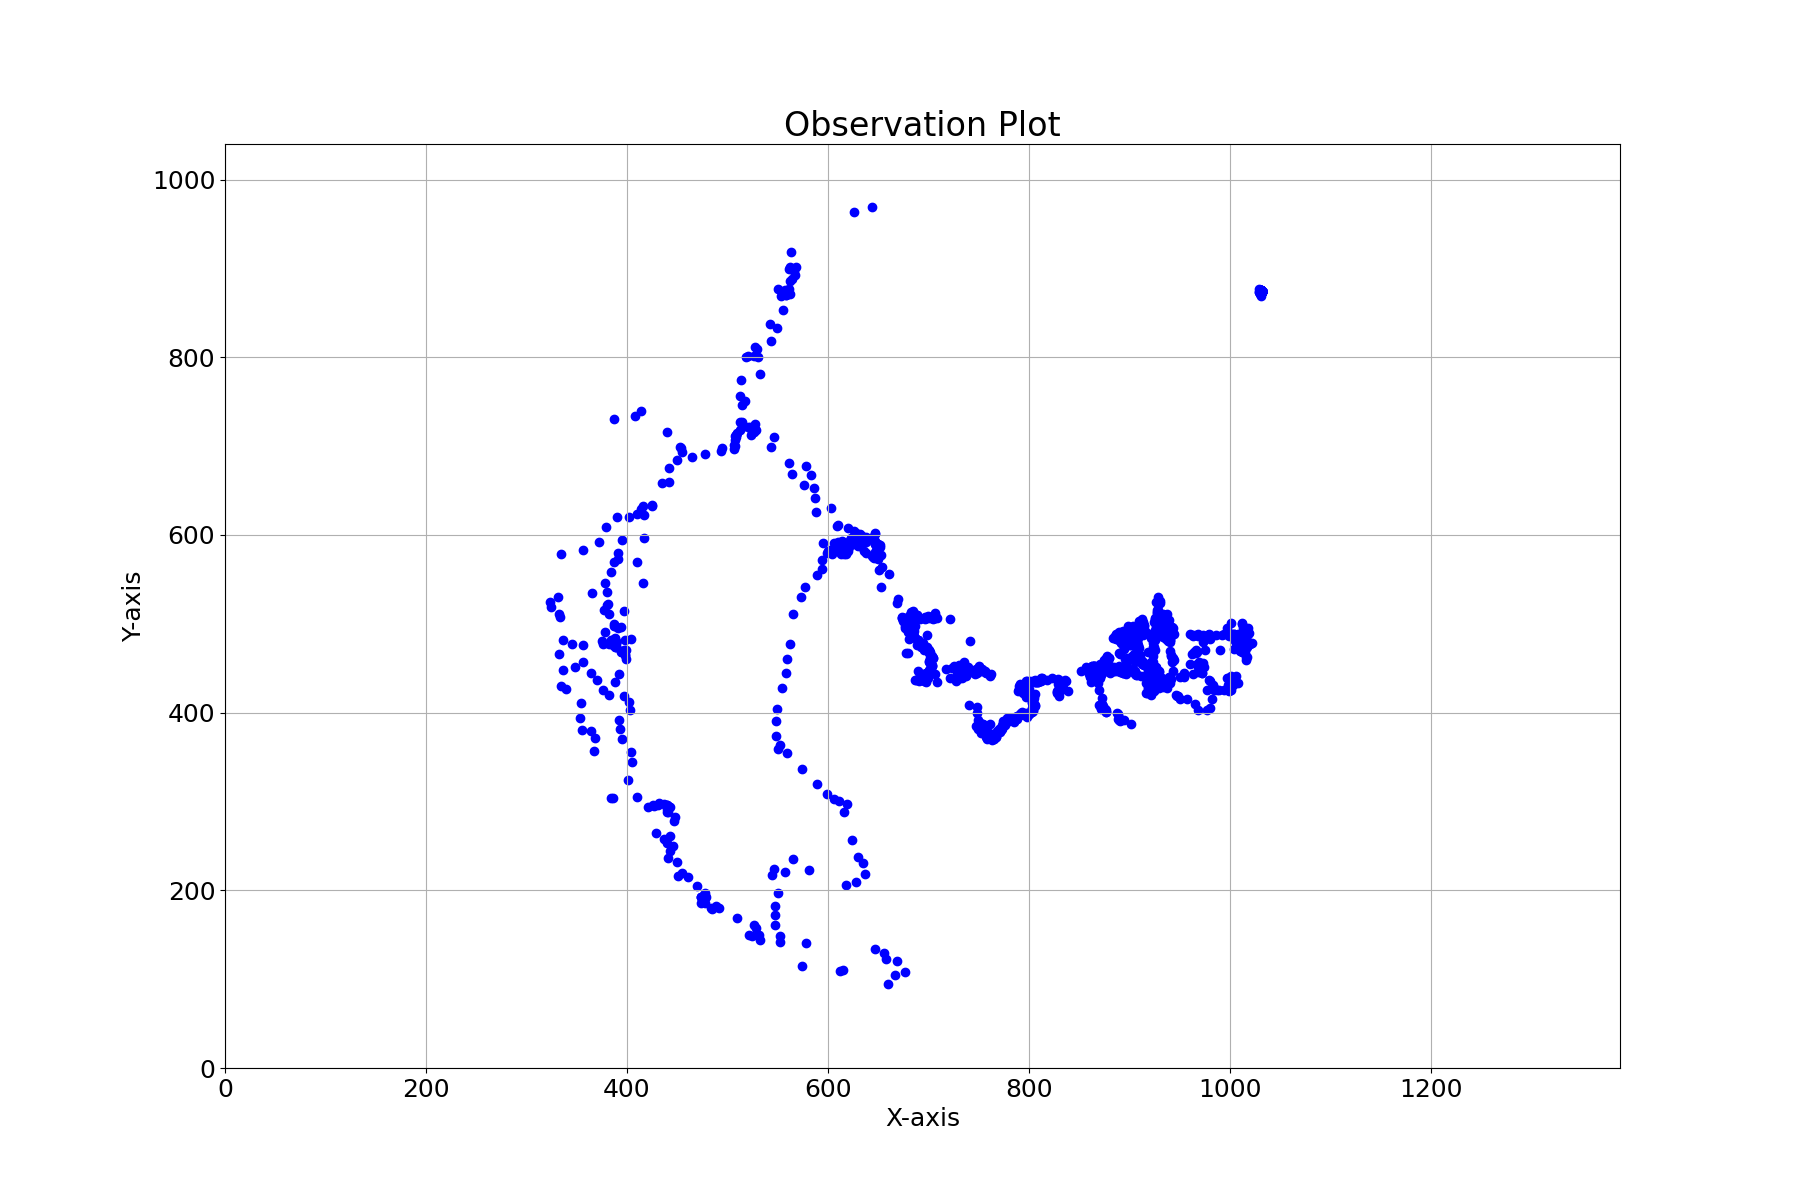
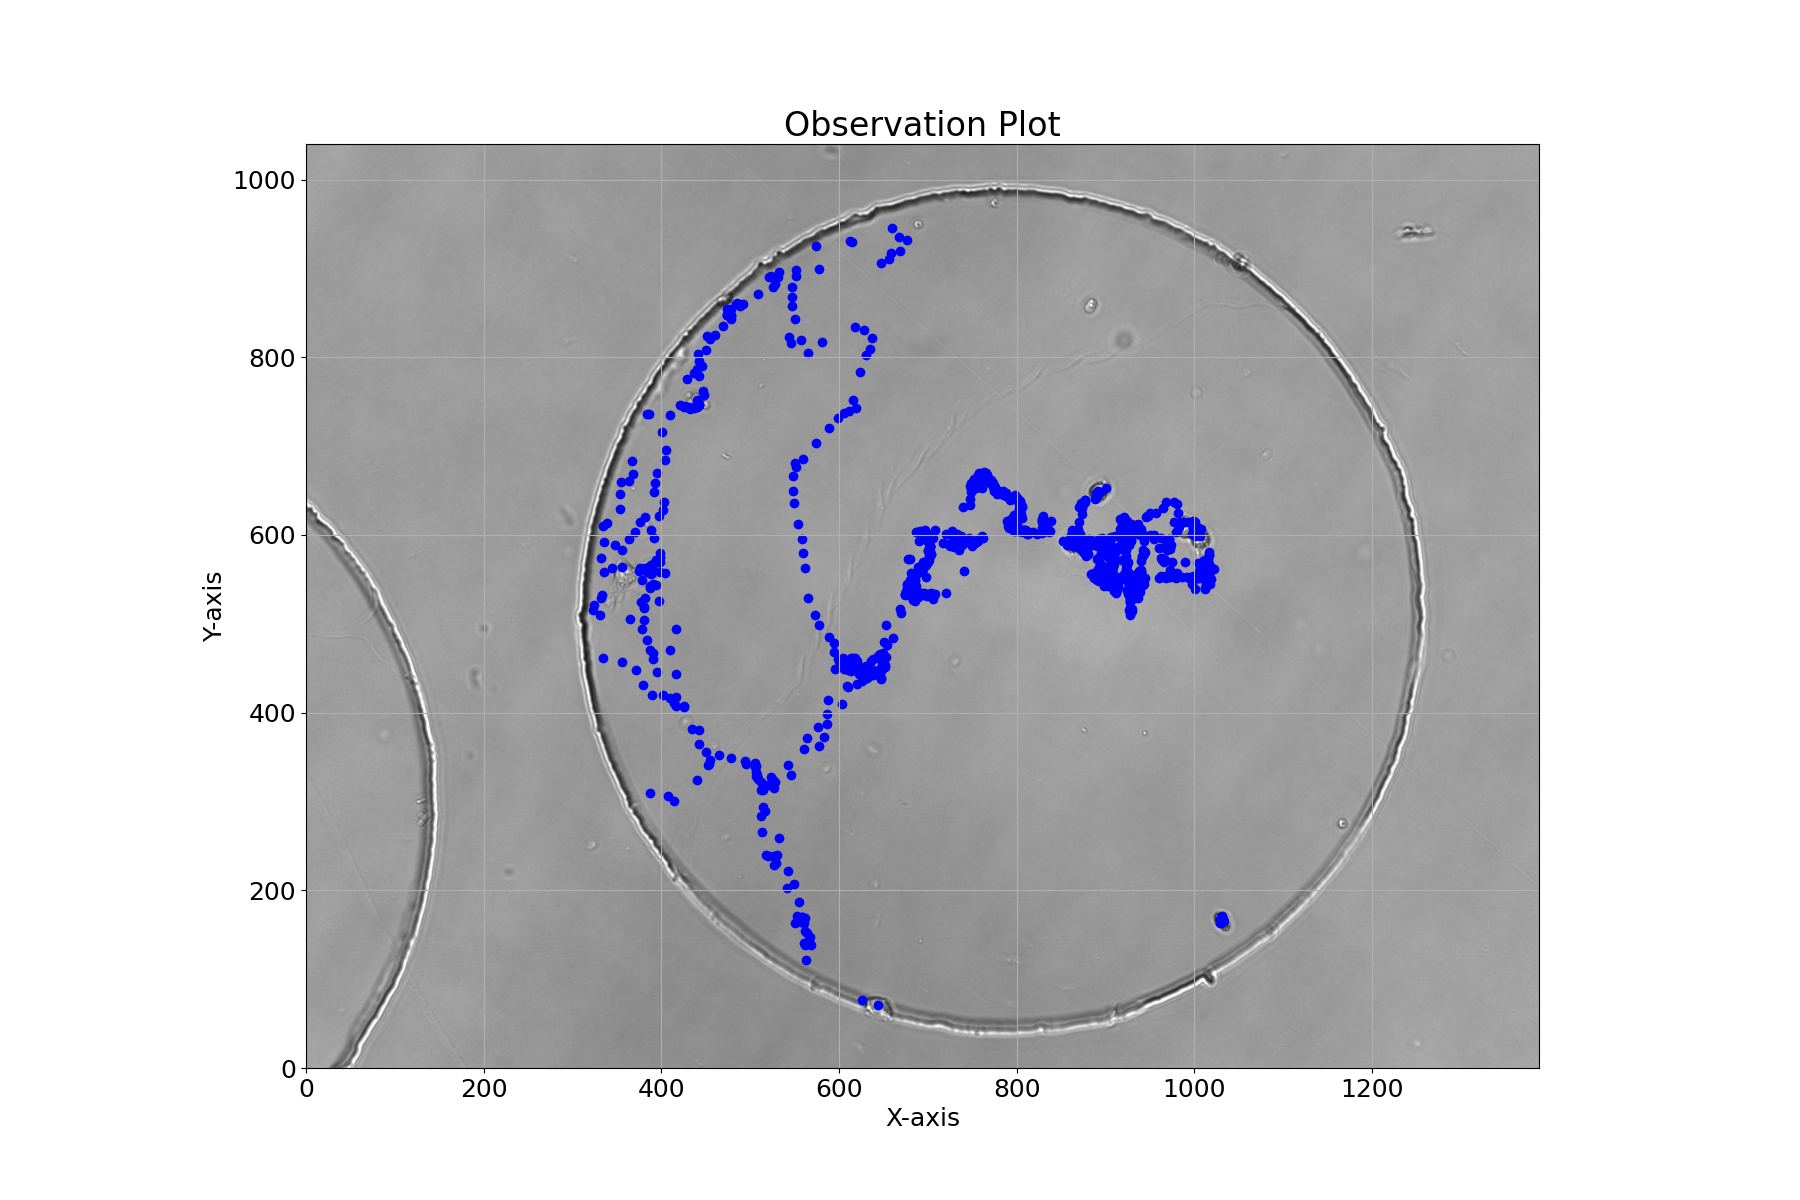
update

diff --git a/tracking.py b/tracking.py
@@ -205,13 +205,14 @@ def draw_trajectory(info):
     # Plot the trajectory
 
     plt.figure(figsize=(18, 12))  # Adjust the figure size as needed
+    plt.imshow(plt.imread('3 min aquisition_1_C03_14/3 min aquisition_1_C03_14_t465.TIF'))
     # trajectories_new = [lst for lst in trajectories if len(lst) >= 100]
     # trajectories = trajectories_new
     for l in range(len(trajectories)):
         print(len(trajectories[l]))
         # Extract x and y coordinates separately
         x_coords = [coord[0] for coord in trajectories[l]]
-        y_coords = [1040-coord[1] for coord in trajectories[l]]
+        y_coords = [coord[1] for coord in trajectories[l]]
         # colors = ['blue', 'magenta', 'green', 'orange', 'purple', 'orange', 'black', 'yellow']
         # for c in range(len(x_coords)-1):
         #     x, y = x_coords[c], y_coords[c]
@@ -236,9 +237,10 @@ def draw_trajectory(info):
     plt.show()
 
     plt.figure(figsize=(18, 12))
+    plt.imshow(plt.imread('3 min aquisition_1_C03_14/3 min aquisition_1_C03_14_t465.TIF'))
     for i in range(len(all_centers)):
         for p in range(len(all_centers[i])):
-            plt.scatter(all_centers[i][p][0], 1040-all_centers[i][p][1], marker='o', c='b')
+            plt.scatter(all_centers[i][p][0], all_centers[i][p][1], marker='o', c='b')
     plt.title('Observation Plot', fontsize=24)
     plt.xlabel('X-axis', fontsize=18)
     plt.ylabel('Y-axis', fontsize=18)
@@ -260,15 +262,16 @@ def draw_trajectory(info):
 def plot_tracking(traces, start_f):
     activated_cells = []
     # for f in range(len(traces[0])):
-    for f in range(250):
+    for f in range(450):
         if len(activated_cells) < len(traces):
             if f == start_f[len(activated_cells)]:
                 activated_cells.append(len(activated_cells))
         # print(activated_cells)
         plt.figure(figsize=(12, 9))
+        plt.imshow(plt.imread('3 min aquisition_1_C03_11/3 min aquisition_1_C03_11_t'+str(f+1).zfill(3)+'.TIF'))
         for c in activated_cells:
             x1, y1 = traces[c][f-start_f[c]-1][0], traces[c][f-start_f[c]-1][1]
-            plt.scatter(x1, 1040-y1, s=60)
+            plt.scatter(x1, y1, s=60)
             plt.xlim([0, 1388])
             plt.ylim([0, 1040])
             plt.grid(True)
@@ -278,12 +281,13 @@ def plot_tracking(traces, start_f):
         plt.legend(["cell " + str(c+1) for c in activated_cells])
         plt.title('t='+str(f+1))
         plt.savefig('runs/tracks/'+str(f)+'.png')
+        plt.close()
 
     # print(activated_cells)
 
 
 if __name__ == "__main__":
-    detection = read_list_from_file('runs/detect/3 min aquisition_1_C03_14.pkl')
+    detection = read_list_from_file('runs/detect/3 min aquisition_1_C03_11.pkl')
     # print(detection)
     all_centers = get_centers(detection)
     tracking_info = track_cell_centers(all_centers)
@@ -291,7 +295,7 @@ if __name__ == "__main__":
     traces, start_f = draw_trajectory(tracking_info)
 
 
-    # plot_tracking(traces, start_f)
+    plot_tracking(traces, start_f)
 
 
 
